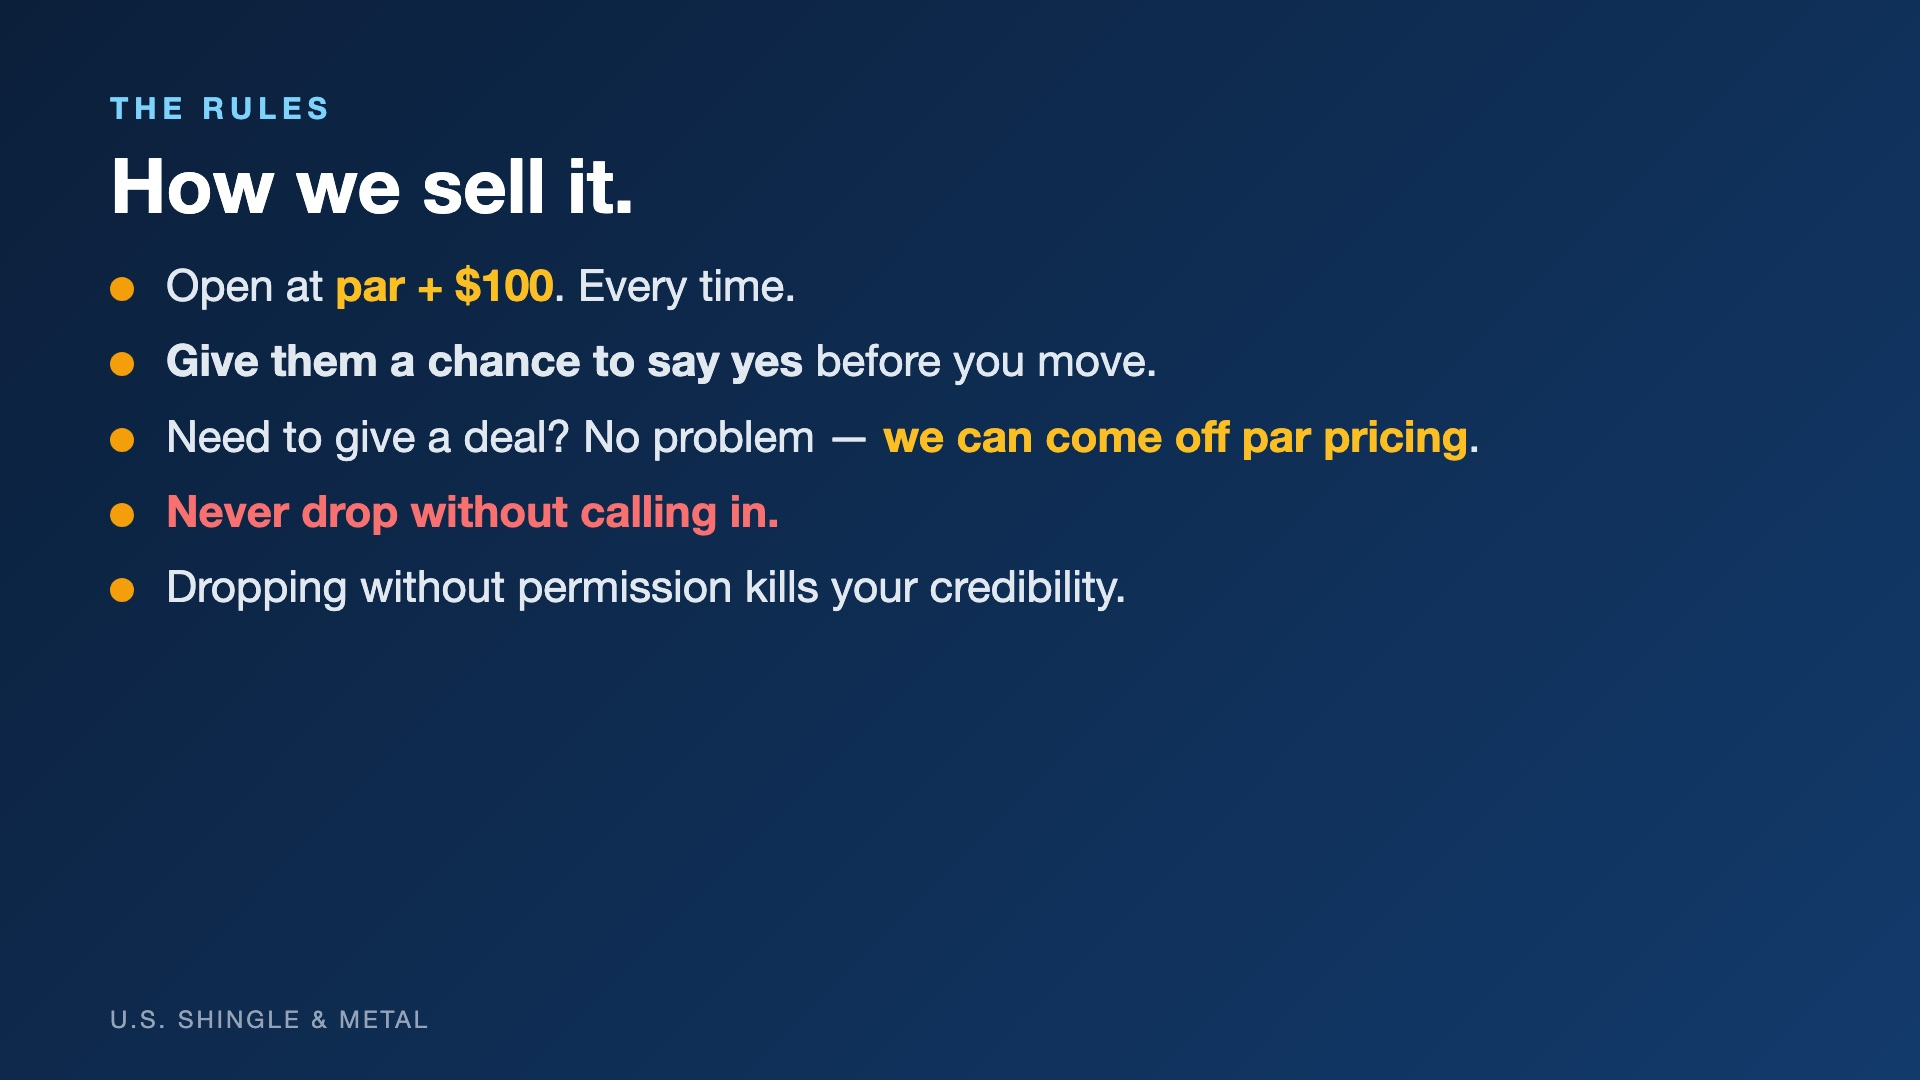
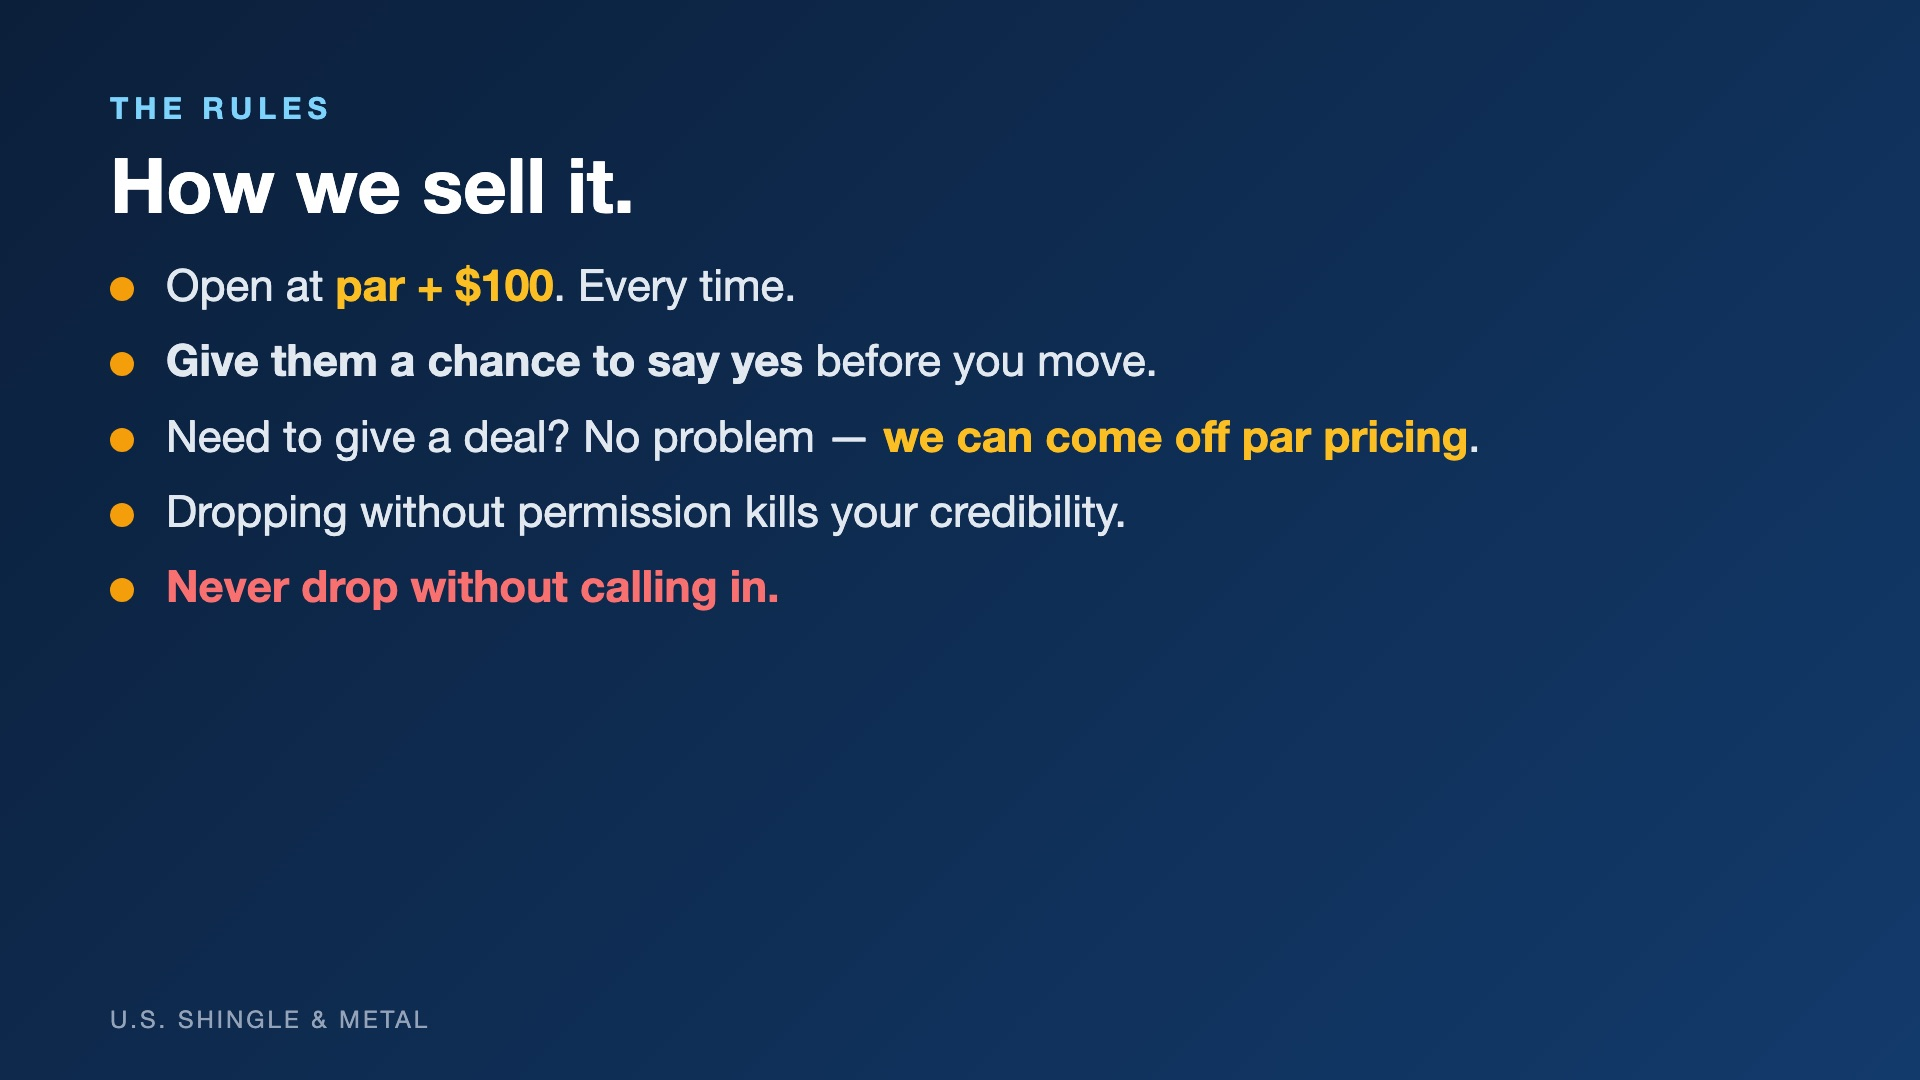
TMS raise deck: rules — 'kills your credibility' above 'never drop without calling in'

Changed region(s): [[0.0625, 0.5194, 0.5938, 0.5806], [0.0625, 0.4583, 0.5938, 0.4889]]

diff --git a/public/raise/index.html b/public/raise/index.html
@@ -24,7 +24,7 @@
     <section data-background-image="img/s07.jpg" data-background-size="contain" data-background-color="#0b1f3a"><aside class="notes">Miss par and the first drop is big: 12% to 7% self-gen, 8% to 4% company leads. Below tier 6 is a $150 mini, no matter how many squares (that&#x27;s mostly shingle; it almost never happens on metal). Odd jobs — like a 500-square townhome complex — we sit down and talk about. New metal par: exposed fastener $875, standing seam $1,075 (VERIFY the standing seam number before the meeting). Palm Beach, Broward and Miami-Dade add $100 a square on top of every price on this slide.</aside></section>
     <section data-background-image="img/s09a.jpg" data-background-size="contain" data-background-color="#0b1f3a"><aside class="notes">Why the $500 permit fee: everything about roofing is going up. Material costs are up. Crews are getting pinched and there are fewer of them, and the ones left know it, so they&#x27;re all raising prices. Crews now charge $350-$700 a job for dump; permits run $275-$1,200 by county. We&#x27;ve been eating it. Everybody&#x27;s feeling it, and it&#x27;s probably going up even more.</aside></section>
     <section data-background-image="img/s09.jpg" data-background-size="contain" data-background-color="#0b1f3a"><aside class="notes">Permits run $275 to $1,200 depending on the county, and crews now charge $350–$700 for dump — we&#x27;ve been eating it. So every contract gets a flat $500 permit-fee line. It&#x27;s called a permit fee so the homeowner sees it isn&#x27;t going to us. It starts at $500 on the close sheet, so reps never present it separately — but if you discount around it, you&#x27;ve dropped below par and it costs you.</aside></section>
-    <section data-background-image="img/s10.jpg" data-background-size="contain" data-background-color="#0b1f3a"><aside class="notes">Start high, end where you need to be. If you start at the bottom and drop with no authority, you lose all credibility (like the call we listened to — she started low and dropped). Call in before you move.</aside></section>
+    <section data-background-image="img/s10.jpg" data-background-size="contain" data-background-color="#0b1f3a"><aside class="notes">Credibility first, then the rule: drop without calling in and all the homeowner is thinking is &#x27;why didn&#x27;t you give me that price to begin with? You were trying to screw me.&#x27; Repeat after me: I will not lower the price without calling my manager first. Start high, end where you need to be. If you start at the bottom and drop with no authority, you lose all credibility (like the call we listened to — she started low and dropped). Call in before you move.</aside></section>
     <section data-background-image="img/s11.jpg" data-background-size="contain" data-background-color="#0b1f3a"><aside class="notes">Outside sales managers have these conversations over the next few days: here&#x27;s the new price point, here&#x27;s what we hit them with first. Close on the raise.</aside></section>
 </div></div>
 <script src="https://cdn.jsdelivr.net/npm/reveal.js@5.0.4/dist/reveal.js"></script>
